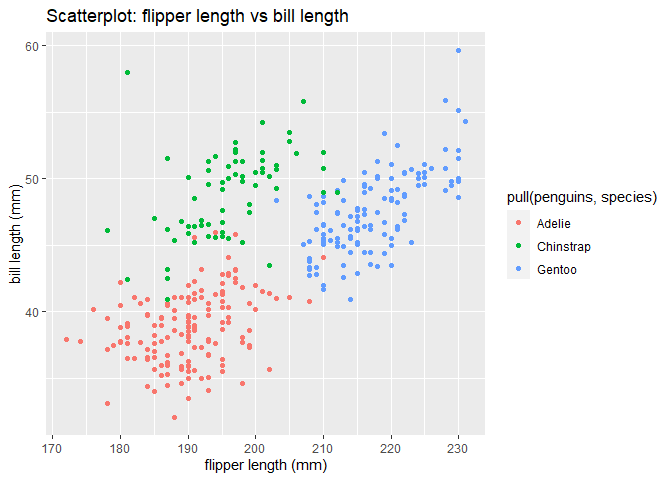
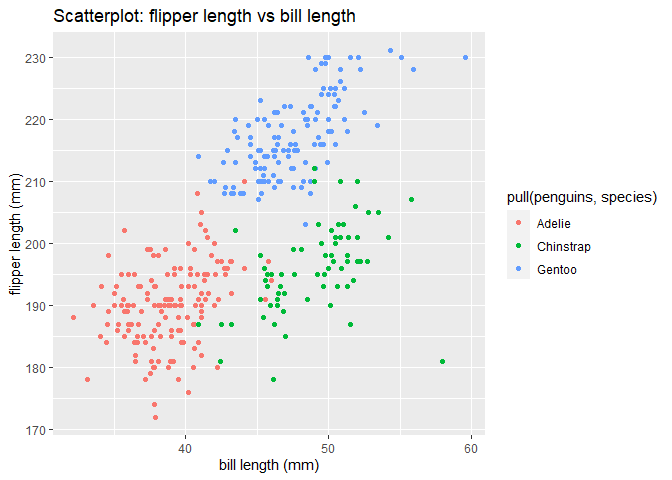
HW 1 (P8015, Fall'20) graph update

diff --git a/p8105_hw1_ps3147.md b/p8105_hw1_ps3147.md
@@ -40,7 +40,7 @@ Take the mean of each variable in my data frame.
 mean(pull(Prob1_df, samp))
 ```
 
-    ## [1] 0.2540504
+    ## [1] 0.275419
 
 ``` r
 mean(pull(Prob1_df, samp_gt_0))
@@ -73,14 +73,14 @@ or factor variables.
 as.numeric(pull(Prob1_df, samp))
 ```
 
-    ##  [1] -0.8166305  0.6958728 -1.2793162 -1.2152547  0.4831088  2.0829812
-    ##  [7]  1.7442295  0.4303330  0.6252594 -0.2100792
+    ##  [1]  1.30650276 -0.25109811  0.01058413 -0.53726003 -0.69800936  0.67689026
+    ##  [7]  0.77126803  0.96481589  0.69210712 -0.18161119
 
 ``` r
 as.numeric(pull(Prob1_df, samp_gt_0))
 ```
 
-    ##  [1] 0 1 0 0 1 1 1 1 1 0
+    ##  [1] 1 0 1 0 0 1 1 1 1 0
 
 ``` r
 as.numeric(pull(Prob1_df, char_vec))
@@ -107,8 +107,8 @@ result
 as.numeric(pull(Prob1_df, samp_gt_0)) * pull(Prob1_df, samp)
 ```
 
-    ##  [1] 0.0000000 0.6958728 0.0000000 0.0000000 0.4831088 2.0829812 1.7442295
-    ##  [8] 0.4303330 0.6252594 0.0000000
+    ##  [1] 1.30650276 0.00000000 0.01058413 0.00000000 0.00000000 0.67689026
+    ##  [7] 0.77126803 0.96481589 0.69210712 0.00000000
 
 converting logical vector to factor, and multiplying numeric by the
 result
@@ -131,8 +131,8 @@ numeric by the result
 as.numeric(as.factor(pull(Prob1_df, samp_gt_0))) * pull(Prob1_df, samp)
 ```
 
-    ##  [1] -0.8166305  1.3917457 -1.2793162 -1.2152547  0.9662175  4.1659625
-    ##  [7]  3.4884589  0.8606659  1.2505188 -0.2100792
+    ##  [1]  2.61300553 -0.25109811  0.02116825 -0.53726003 -0.69800936  1.35378051
+    ##  [7]  1.54253605  1.92963179  1.38421425 -0.18161119
 
 End problem 1.
 
@@ -184,13 +184,13 @@ Code chunk for Scatterplot of flipper\_length vs bill\_length, using the
 
 ``` r
 plot_df = tibble(
-   x = pull(penguins, flipper_length_mm),
-   y = pull(penguins, bill_length_mm)
+   x = pull(penguins, bill_length_mm),
+   y = pull(penguins, flipper_length_mm)
 )
 
 ggplot(plot_df, aes(x = x, 
                     y = y, 
-                    color = pull(penguins, species))) + geom_point() + labs(title = "Scatterplot: flipper length vs bill length", x = "flipper length (mm)", y = "bill length (mm)")
+                    color = pull(penguins, species))) + geom_point() + labs(title = "Scatterplot: flipper length vs bill length", x = "bill length (mm)", y = "flipper length (mm)")
 ```
 
     ## Warning: Removed 2 rows containing missing values (geom_point).
